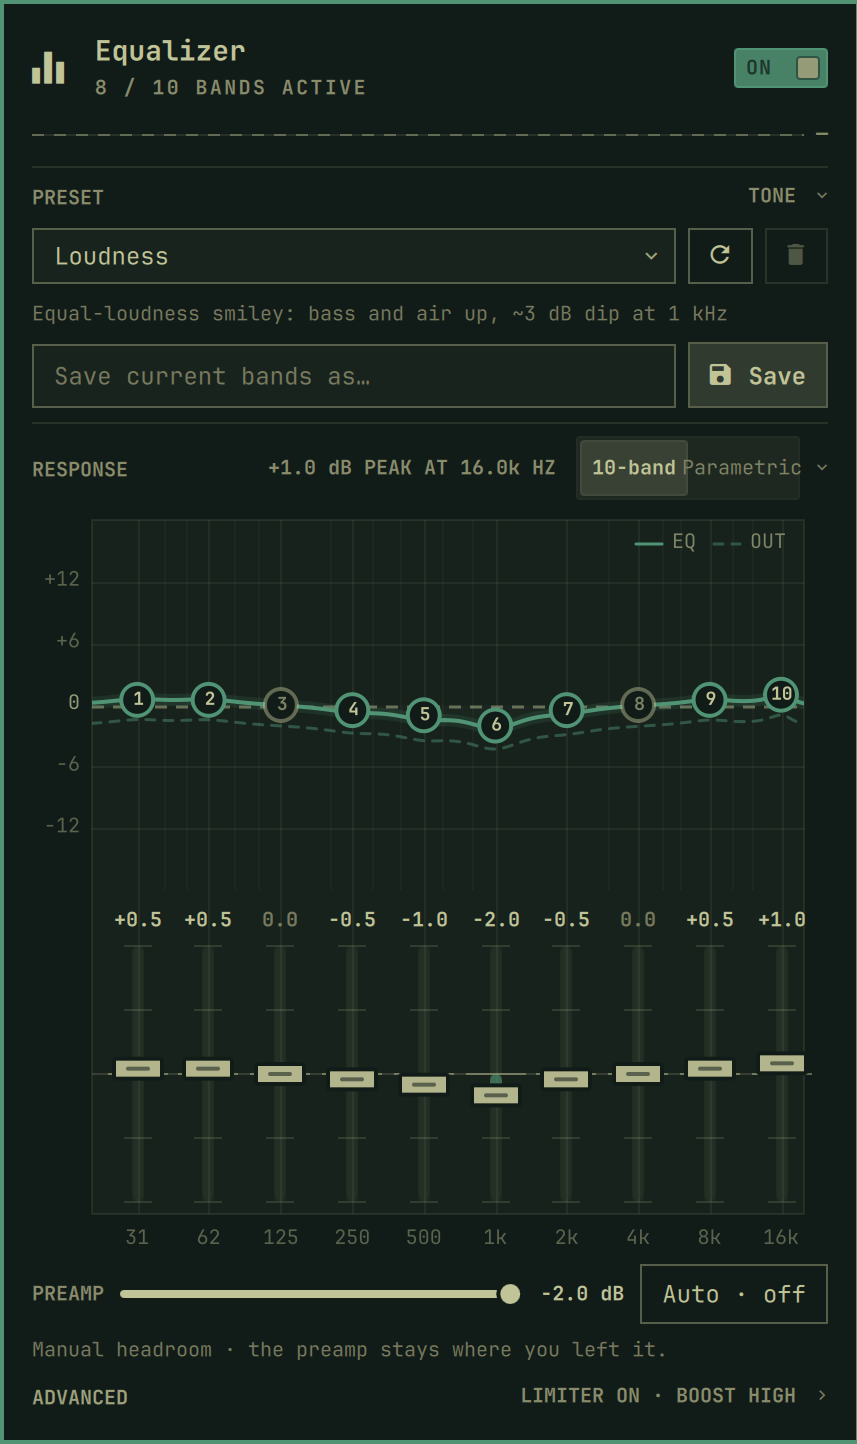
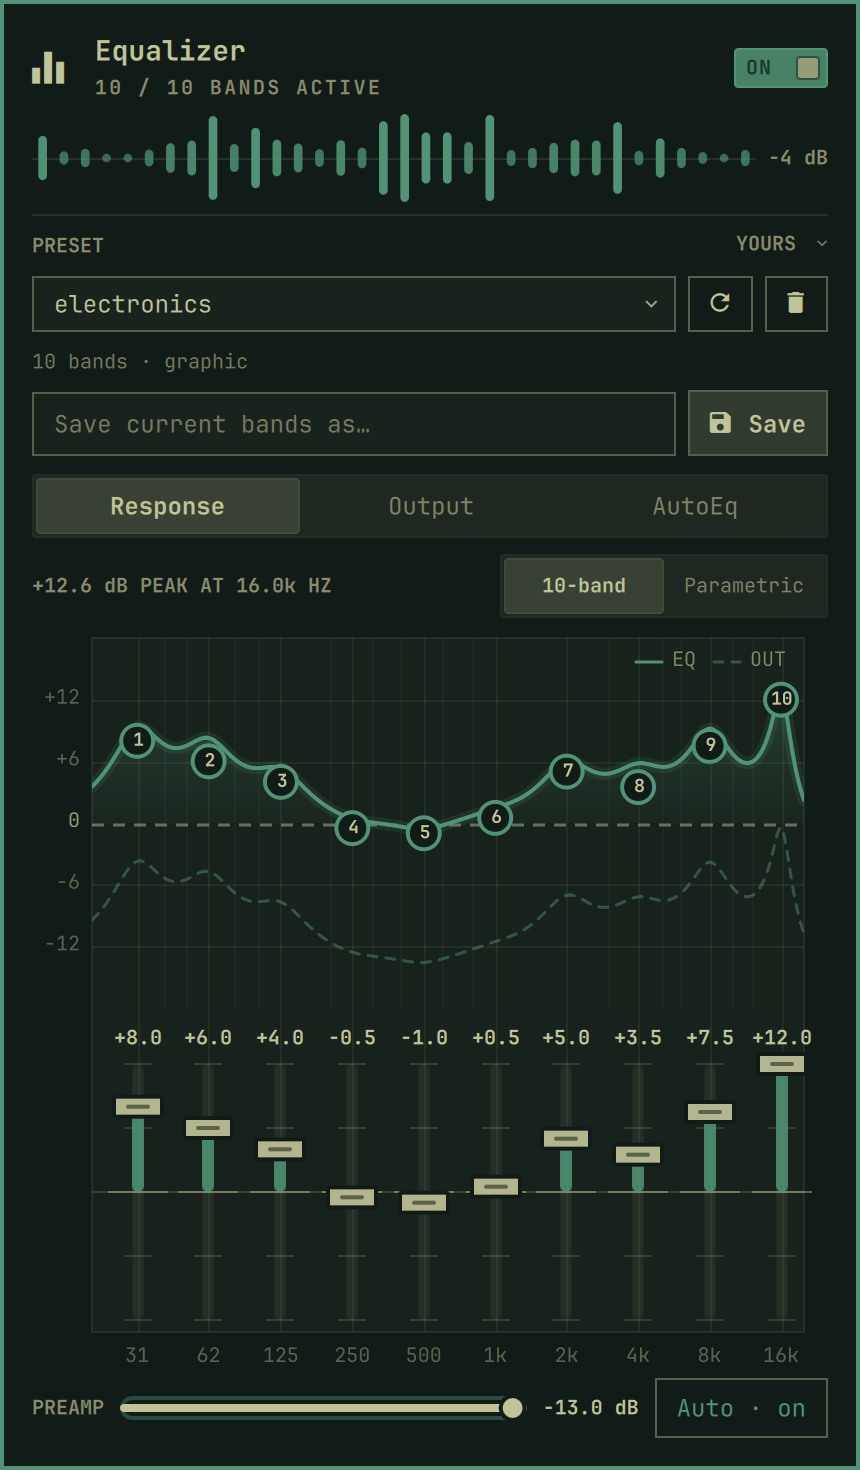
Recapture the screenshots from the tabbed 2.0 panel

diff --git a/docs/review-2026-10-24.md b/docs/review-2026-10-24.md
@@ -16,7 +16,7 @@ stops the settle timer), F4 (restart waits for the old sink to go; a failed rest
 `parkedStreams` and the follower returns them). Manifest 2.0.0, README count and meter text.
 Suite 287 → 318 backend + 21 QML; every new check fails on the committed backend/QML.
 
-Still open: F4's level jump for parked streams, the screenshots (D9), and everything else below.
+Screenshots (D9) recaptured from the running panel. Still open: F4's level jump for parked streams, and everything else below.
 
 ## 0. Summary
 
